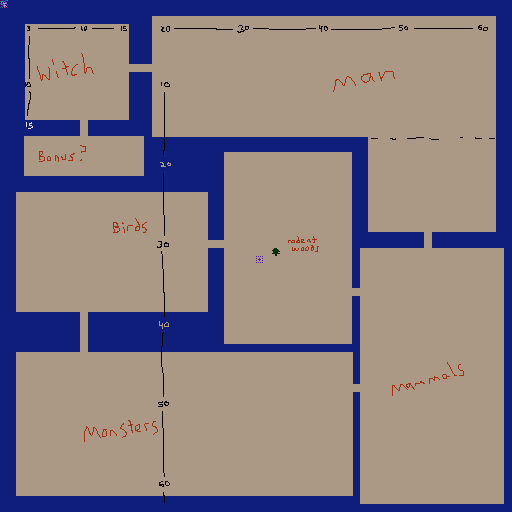
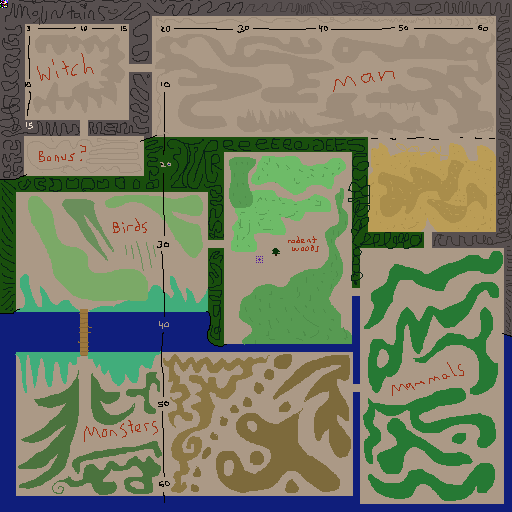
scratchy world graphics to make movement visible, and some wee fixes

diff --git a/src/game/sprite_monster.c b/src/game/sprite_monster.c
@@ -4,6 +4,8 @@ struct sprite_monster {
   struct sprite hdr;
   uint64_t hand;
   uint8_t tileid;
+  double faceclock;
+  uint8_t xform;
 };
 
 #define SPRITE ((struct sprite_monster*)sprite)
@@ -22,6 +24,7 @@ static int _monster_init(struct sprite *sprite,const void *args,int argslen) {
     //TODO digest args
   }
   SPRITE->tileid=0x00; // I'm Dot if they forget to set this.
+  SPRITE->faceclock=((rand()&0xffff)/65535.0);
   return 0;
 }
 
@@ -29,6 +32,15 @@ static int _monster_init(struct sprite *sprite,const void *args,int argslen) {
  */
  
 static void _monster_update(struct sprite *sprite,double elapsed) {
+  // Turn to face the hero. But don't bother checking every frame; allow say a quarter second between polls.
+  if ((SPRITE->faceclock-=elapsed)<=0.0) {
+    SPRITE->faceclock+=0.250;
+    struct sprite *hero=world_get_hero();
+    if (hero) {
+      if (hero->x<sprite->x-0.250) SPRITE->xform=EGG_XFORM_XREV;
+      else if (hero->x>sprite->x+0.250) SPRITE->xform=0;
+    }
+  }
 }
 
 /* Bump.
@@ -59,6 +71,9 @@ static void monster_cb_battle(struct modal *modal) {
   } else {
     fprintf(stderr,"...thou hast done well in defeating the monster\n");//XXX
     sprite->defunct=1;
+    if (manhand==0x000fffffffffffffll) {
+      fprintf(stderr,"YOU GOT ALL FIFTY TWO!\n");//TODO
+    }
   }
 }
  
@@ -83,7 +98,7 @@ static int _monster_bump(struct sprite *sprite,struct sprite *hero) {
  */
  
 static void _monster_render(struct sprite *sprite,int x,int y) {
-  graf_tile(&g.graf,x,y,SPRITE->tileid,0);
+  graf_tile(&g.graf,x,y,SPRITE->tileid,SPRITE->xform);
 }
 
 /* Type definition.

diff --git a/src/game/modal_battle.c b/src/game/modal_battle.c
@@ -346,8 +346,11 @@ static void battle_pick_suit(struct modal *modal) {
 }
 
 static void battle_pick_rank(struct modal *modal) {
+  if (MODAL->rankc<1) return;
   //TODO sound
   MODAL->picking_rank=1;
+  // Prefer to select the lowest rank, but not "none":
+  if ((MODAL->rankc>=2)&&(MODAL->rankv[0]<0)&&(MODAL->rankp==0)) MODAL->rankp=1;
 }
 
 /* WEST to cancel.
@@ -384,6 +387,7 @@ static void battle_activate(struct modal *modal) {
   }
   //TODO sound
   MODAL->pickv[MODAL->pickp]=MODAL->rankv[MODAL->rankp];
+  MODAL->picking_rank=0; // Return focus to the suit row.
   battle_maybe_confirm(modal);
 }
 
@@ -544,15 +548,6 @@ static void _battle_update(struct modal *modal,double elapsed,int input) {
     default: modal->defunct=1;
   }
   MODAL->pvinput=input;
-  
-  //XXX AUX2 to abort. It's safe to abort; monster will see the outcome as whatever we came in with, until disbursement.
-  if (input&EGG_BTN_AUX2) {
-    modal->defunct=1;
-    if (MODAL->cb) {
-      MODAL->cb(modal);
-      MODAL->cb=0;
-    }
-  }
 }
 
 /* Render, INTRO.

diff --git a/src/game/world.c b/src/game/world.c
@@ -33,10 +33,20 @@ static int world_poprgn(int xlo,int ylo,int xhi,int yhi,int spritec,int cardc_pe
   int cellv[1024]; // Current scratch map, the largest region is 756 cells. (the monster zone, in the southwest)
   int cellc=0;
   int y=ylo; for (;y<=yhi;y++) {
+    const uint8_t *physics=g.physics+y*8+(xlo>>3);
+    uint8_t phmask=0x80>>(xlo&7);
     int x=xlo; for (;x<=xhi;x++) {
       if (cellc>=1024) break;
       if ((x==32)&&(y==32)) break; // Skip this one, where the hero goes. Easier than scanning sprites generically.
-      cellv[cellc++]=y*MAPW+x;
+      if (!((*physics)&phmask)) {
+        cellv[cellc++]=y*MAPW+x;
+      }
+      if (phmask==0x01) {
+        phmask=0x80;
+        physics++;
+      } else {
+        phmask>>=1;
+      }
     }
     if (cellc>=1024) break;
   }

diff --git a/README.md b/README.md
@@ -59,25 +59,30 @@ Actual:
 - [x] Camera.
 - [x] Battle triggers.
 - [x] Battle.
-- [ ] Should there be persistence?
+- [x] Should there be persistence? ...no. It plays pretty easy in one sitting. And I don't think there will be any high score worth saving.
 - [x] Map tooling. I'm picturing we show the big image, and MacPaint pencil over it for physics.
 - [x] Font replacement. Along the lines of Egg's API-wise, but Egg's is overkill.
 - [x] Pressing A to dismiss the battle causes the hero's peek to begin briefly. Black it out.
 - [x] Battle at DISBURSEMENT stage, it picked the wrong vertical positions when I had both a swap and a take.
-- [ ] Battle: After picking rank, focus should return to the suit row.
-- [ ] I think default rank to the first card too, not the "none".
+- [x] Battle: After picking rank, focus should return to the suit row.
+- [x] I think default rank to the first card too, not the "none".
 
-- [ ] How many monsters, and how many cards apiece?
+- [x] How many monsters, and how many cards apiece?
 - - Dot starts with 6, I like that number. Leaves 46 to distribute.
 - - Monster positions and hands will be random, but do keep the distribution fixed (by count at least).
 - - And not entirely random either. A given monster will appear in a certain region and have a hand of a certain size.
-- - Try: 10, 5,5, 4,4, 3,3,3, 2,2,2, 1,1,1 -- 14 monsters
+- - Try: 10, 5,5, 4,4, 3,3,3, 2,2,2, 1,1,1 -- 14 monsters. Seems to work good.
 
+- [ ] Monsters run away.
 - [ ] View hand, maybe by pressing B in the outer world?
 - [ ] Show card count always in outerworld.
 - [ ] Can we give some fanfare when a region is cleared?
+- - How about a ring of flags or something, around the region's edge.
 - [ ] Probably need some kind of guidance to the remaining monsters.
+- [ ] Extra juice after killing a monster.
 - [ ] Eliminate battle logging, once I'm comfortable with it.
+- [ ] Consider using two full-size images, one for roofs, and mark the roofed regions so it disappears when you're inside.
+- [ ] Figure out how we're giving the cross-game clue, and what our bonus is.
 - [ ] Proper map.
 - [ ] Proper graphics.
 - [ ] Music.
